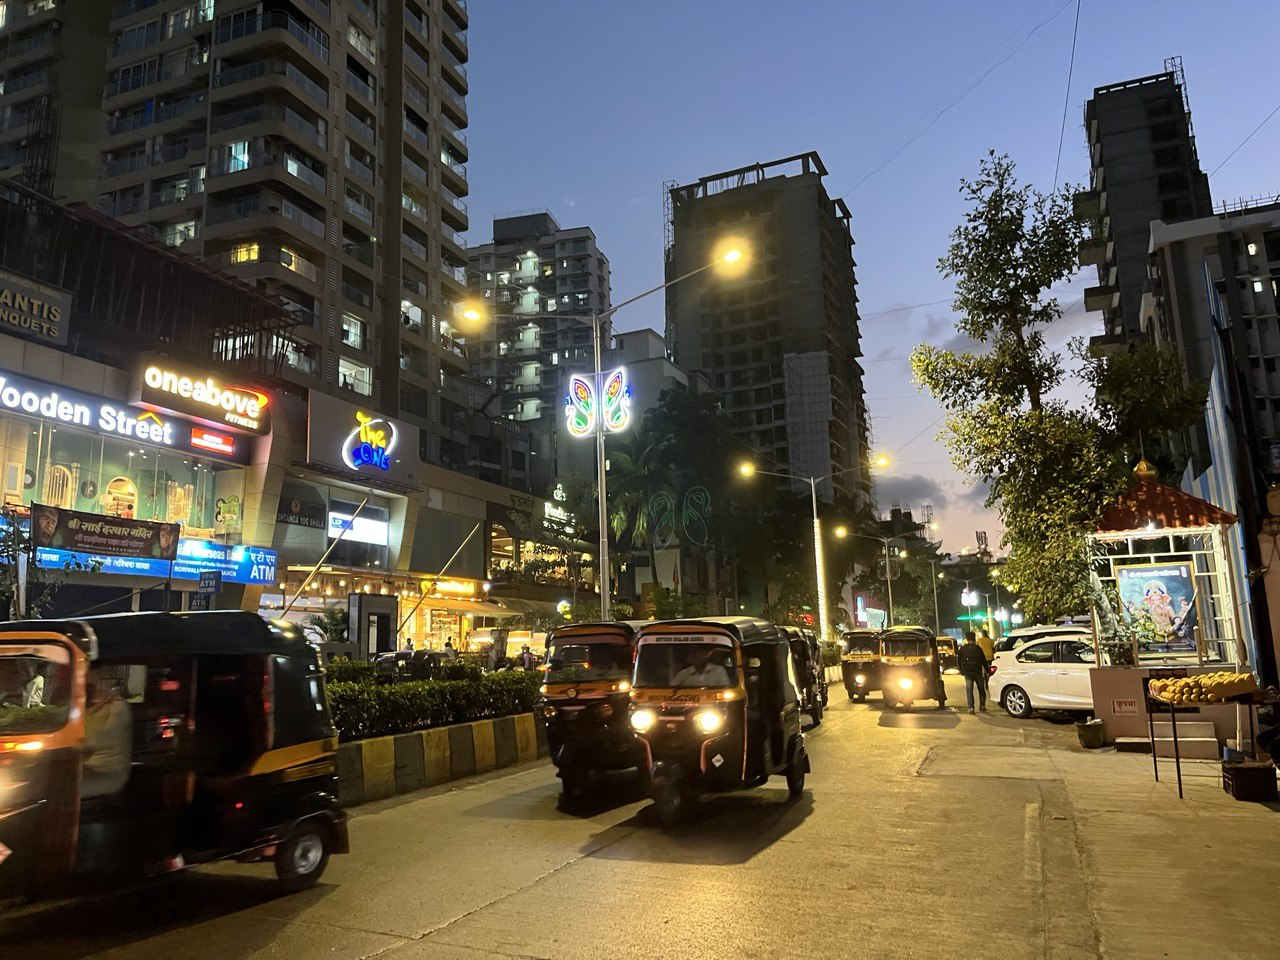
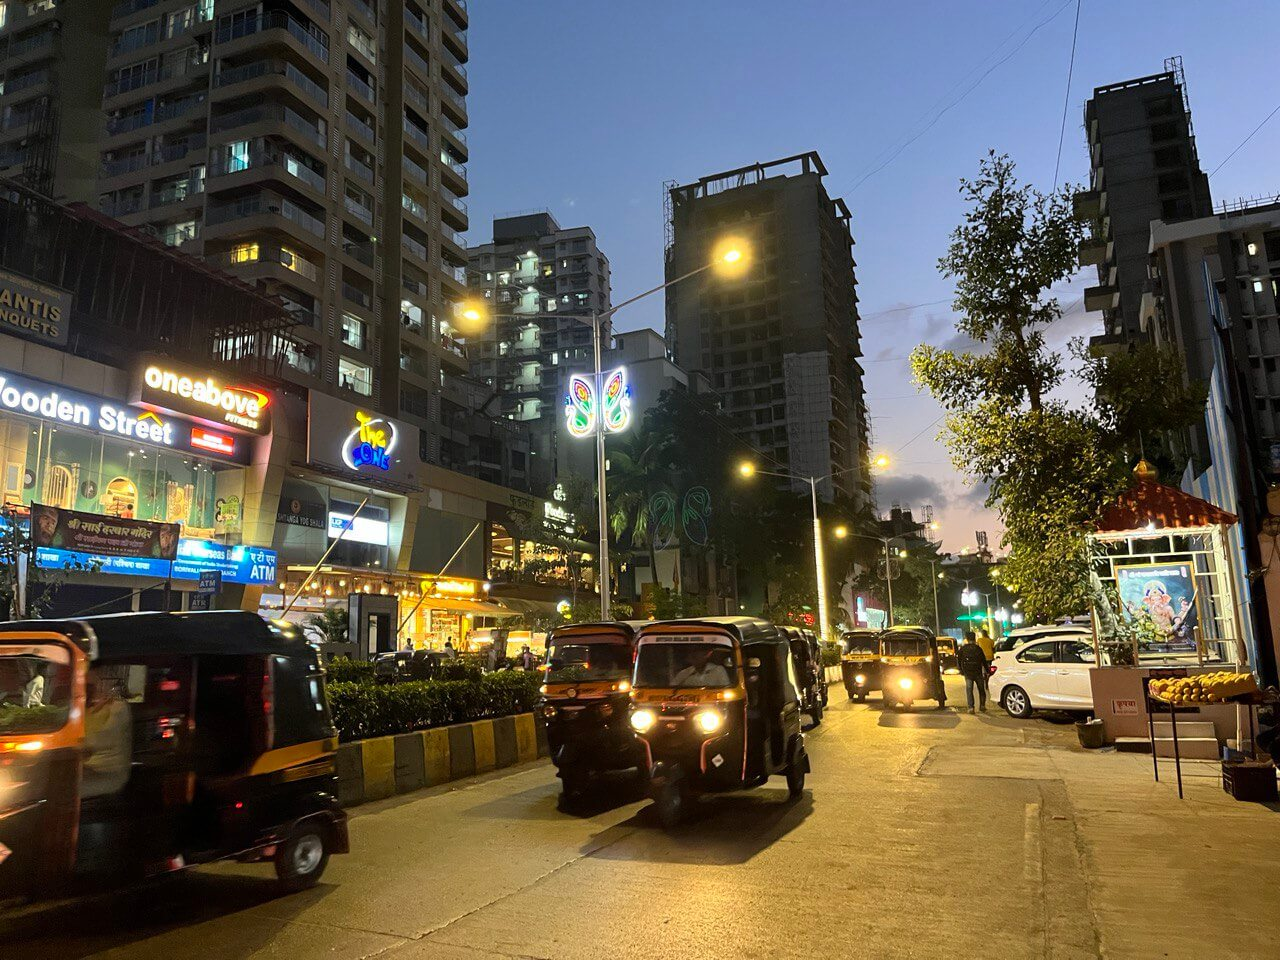
smaller images

diff --git a/index.html b/index.html
@@ -13,5 +13,5 @@ title: ""
     </div>
 </div>
 
-<h1>About Me</h1>
+<h1>About</h1>
 <p>Computer Science at the University of Michigan. Interested in design, robotics, and ML.</p>

diff --git a/readme.md b/readme.md
@@ -1,4 +1,5 @@
 # Website
+
 Personal Website \
 Built using Hakyll \
 `git subtree push --prefix _site origin deploy` to deploy 
